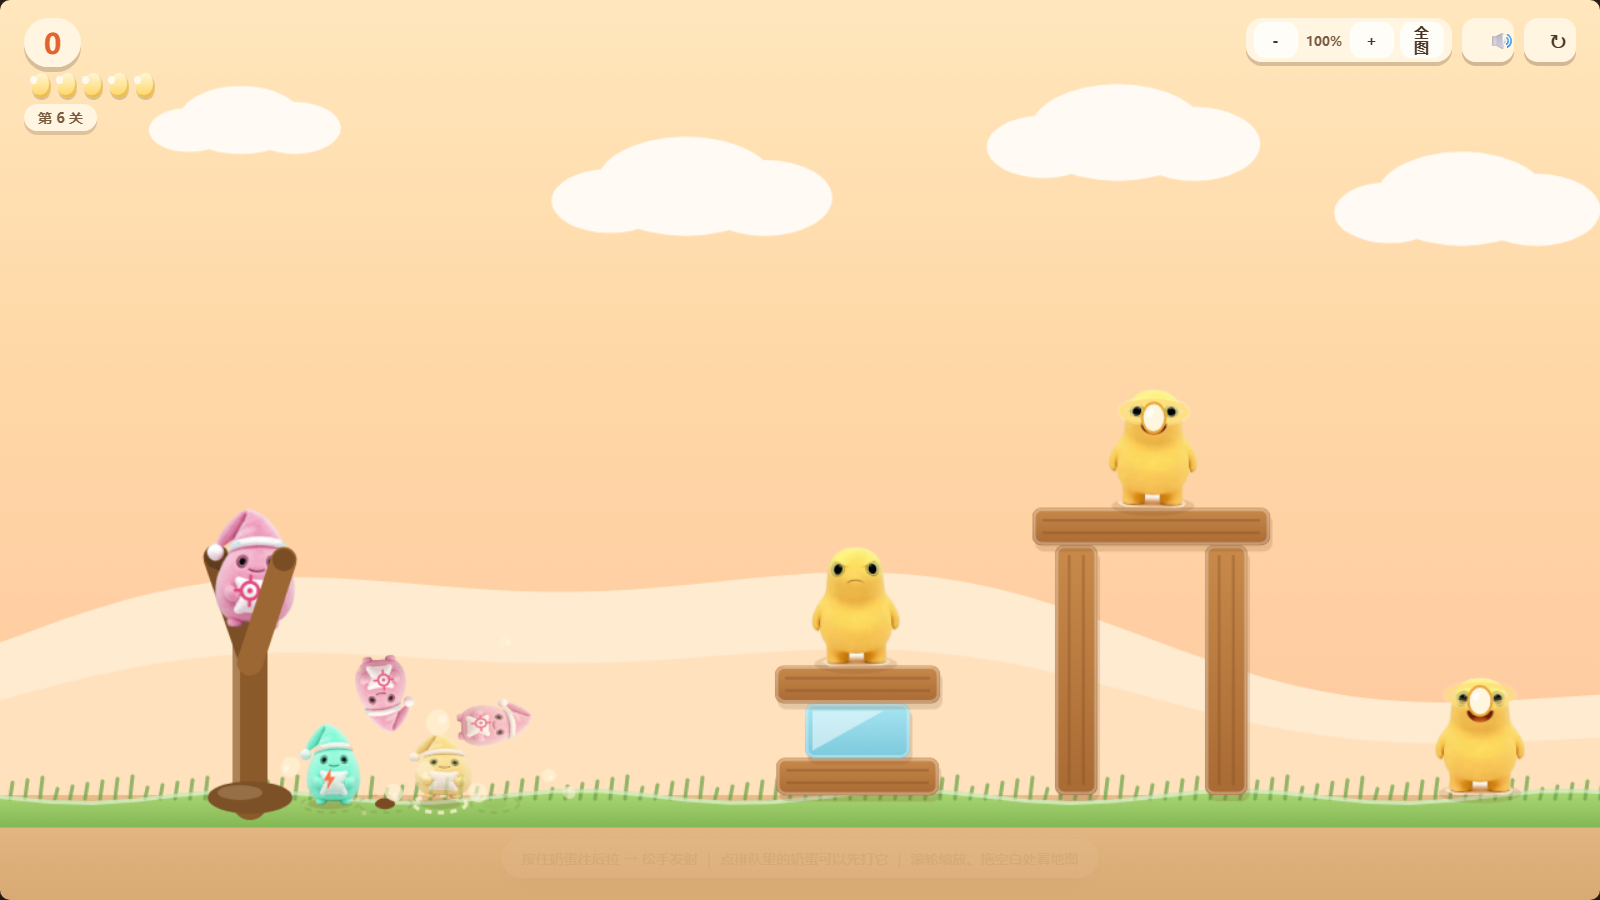
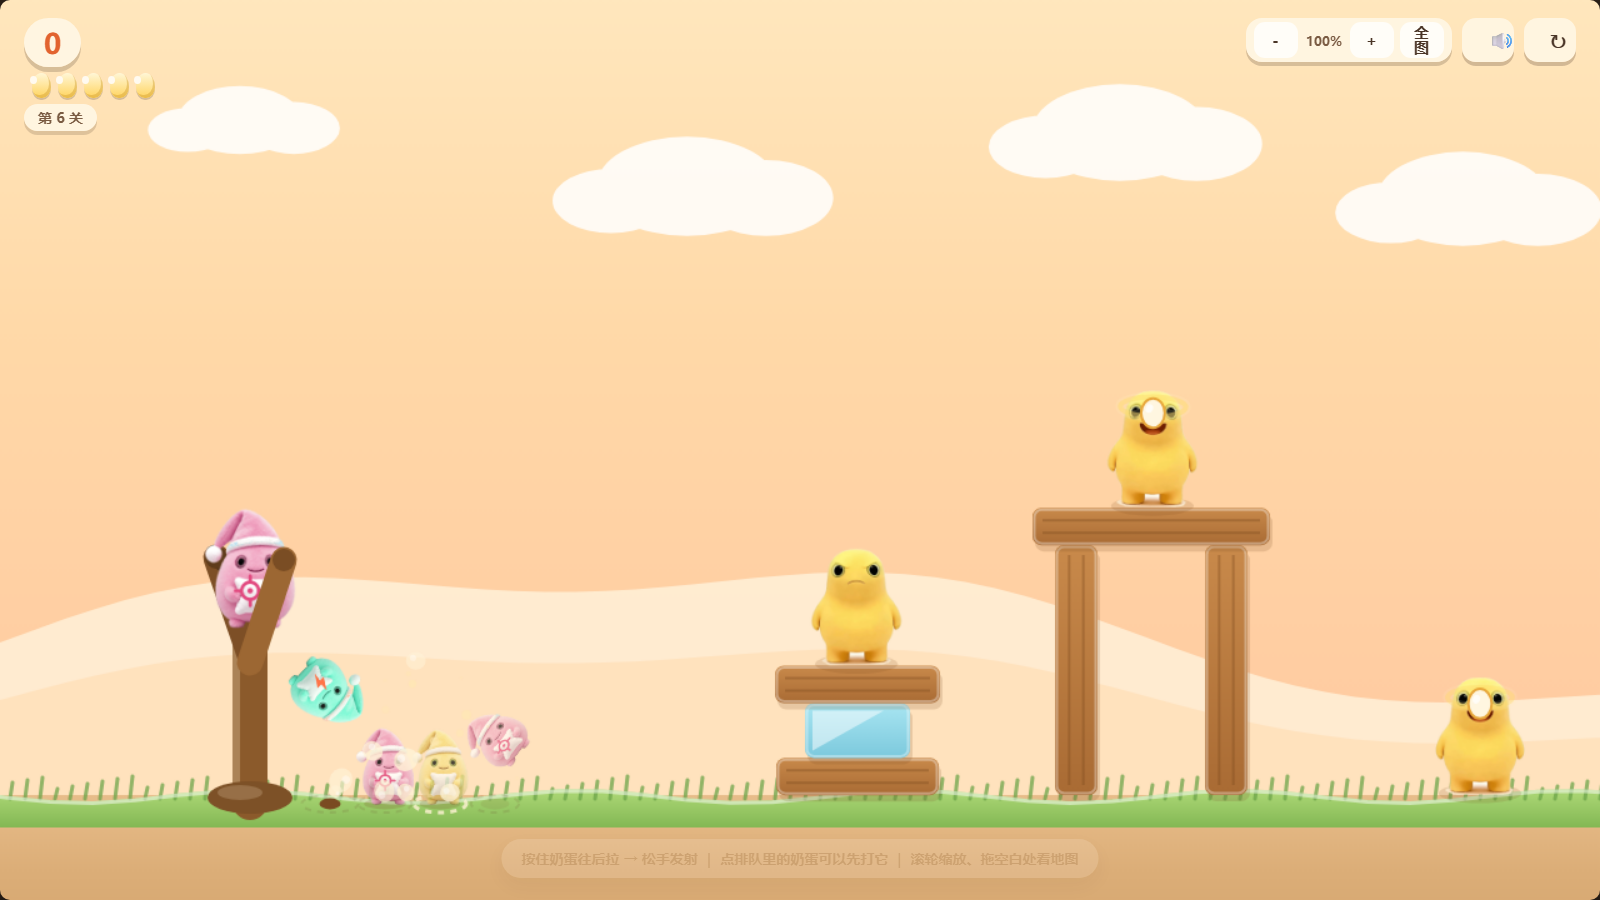
满弓抖动减弱
拉满弓时的持续振动收细一半：相机抖动强度 0.34 → 0.18（稳定峰值约 ±2.8px → ±1.3px），奶蛋本体抖动 2.4 → 1.3。发光/脉冲/暖光暗角/金色力度条这些表现都不动，保留"绷紧了"的手感。

验收里加了上限断言：满弓时相机抖动峰值不得超过 2.0px（实测 1.32）。

diff --git a/dist/奶蛋弹弓-单文件.html b/dist/奶蛋弹弓-单文件.html
@@ -1362,7 +1362,7 @@ window.BossLevel = {
   const world = engine.world;
   /** 版本戳：每次改完随手改一下，标题页角落和 window.__nai.build 都能看到，
    *  方便确认浏览器里跑的是不是最新那份（file:// 打开时页面不会自己刷新） */
-  const BUILD = '2026-10-14 · 转场不再丢弹';
+  const BUILD = '2026-10-14 · 满弓抖动减弱';
   let state = 'title'; // title | pick | intro | aim | fly | settling | clearing | over
   let score = 0;
   let birdsLeft = 0;
@@ -2974,8 +2974,9 @@ window.BossLevel = {
         addSpark(activeBird.position.x, activeBird.position.y, 16, '#ffe6a8', 'star');
         shake(3.2);
       }
-      // 满弓时弓身嗡嗡发抖
-      if (drag.charge > 0.05) shake(0.34 * drag.charge);
+      // 满弓时弓身嗡嗡发抖（0.18 会让相机抖稳定在 ±1.5px 左右；
+      // 原来是 0.34 ≈ ±2.8px，抖得有点晕，这里收细一点，保留"绷紧了"的手感）
+      if (drag.charge > 0.05) shake(0.18 * drag.charge);
     }
 
     // 开场动画：镜头按时间轴走，物理照常跑（让结构自己落稳）
@@ -3328,7 +3329,7 @@ window.BossLevel = {
     ctx.translate(b.position.x, b.position.y);
     // 满弓时奶蛋自己也在抖
     if (drag && drag.charge > 0.15 && state === 'aim') {
-      const j = drag.charge * 2.4;
+      const j = drag.charge * 1.3;   // 原来是 2.4，跟着一起收细
       ctx.translate(rand(-j, j), rand(-j, j));
     }
     ctx.rotate(b.angle);
@@ -4105,6 +4106,7 @@ window.BossLevel = {
       bombs: bombs.length,
       explosions: explosions.length,
       charge: drag ? Math.round((drag.charge || 0) * 100) / 100 : 0,
+      camShake: Math.round(CAM.shake * 100) / 100,
       pullPower: drag ? Math.round((drag.power || 0) * 100) / 100 : 0,
       /** 等候区奶蛋的待机姿态（测试用：能看出它们是不是真的在动、有没有翻整圈） */
       queueIdle: birdQueue.slice(0, 3).map((k, i) => {

diff --git a/js/game.js b/js/game.js
@@ -149,7 +149,7 @@
   const world = engine.world;
   /** 版本戳：每次改完随手改一下，标题页角落和 window.__nai.build 都能看到，
    *  方便确认浏览器里跑的是不是最新那份（file:// 打开时页面不会自己刷新） */
-  const BUILD = '2026-10-14 · 转场不再丢弹';
+  const BUILD = '2026-10-14 · 满弓抖动减弱';
   let state = 'title'; // title | pick | intro | aim | fly | settling | clearing | over
   let score = 0;
   let birdsLeft = 0;
@@ -1761,8 +1761,9 @@
         addSpark(activeBird.position.x, activeBird.position.y, 16, '#ffe6a8', 'star');
         shake(3.2);
       }
-      // 满弓时弓身嗡嗡发抖
-      if (drag.charge > 0.05) shake(0.34 * drag.charge);
+      // 满弓时弓身嗡嗡发抖（0.18 会让相机抖稳定在 ±1.5px 左右；
+      // 原来是 0.34 ≈ ±2.8px，抖得有点晕，这里收细一点，保留"绷紧了"的手感）
+      if (drag.charge > 0.05) shake(0.18 * drag.charge);
     }
 
     // 开场动画：镜头按时间轴走，物理照常跑（让结构自己落稳）
@@ -2115,7 +2116,7 @@
     ctx.translate(b.position.x, b.position.y);
     // 满弓时奶蛋自己也在抖
     if (drag && drag.charge > 0.15 && state === 'aim') {
-      const j = drag.charge * 2.4;
+      const j = drag.charge * 1.3;   // 原来是 2.4，跟着一起收细
       ctx.translate(rand(-j, j), rand(-j, j));
     }
     ctx.rotate(b.angle);
@@ -2892,6 +2893,7 @@
       bombs: bombs.length,
       explosions: explosions.length,
       charge: drag ? Math.round((drag.charge || 0) * 100) / 100 : 0,
+      camShake: Math.round(CAM.shake * 100) / 100,
       pullPower: drag ? Math.round((drag.power || 0) * 100) / 100 : 0,
       /** 等候区奶蛋的待机姿态（测试用：能看出它们是不是真的在动、有没有翻整圈） */
       queueIdle: birdQueue.slice(0, 3).map((k, i) => {

diff --git a/README.md b/README.md
@@ -25,8 +25,8 @@
 操作：
 
 - **按住弹弓上的奶蛋往后拉**，出现预测弹道点，**松手发射**
-- **拉到最满**（93% 以上）时奶蛋会开始发光、发抖，屏幕边缘泛暖光，力度条变金并打出"满弓！"
-  （蓄力过程是静音的，只在跨过满弓那一刻响一声提示音）
+- **拉到最满**（93% 以上）时奶蛋会开始发光、轻微发抖，屏幕边缘泛暖光，力度条变金并打出"满弓！"
+  （抖动刻意收细：相机峰值 ±1.3px、奶蛋 ±1.3px，够"绷紧"但不晃眼；蓄力过程是静音的，只在跨过满弓那一刻响一声提示音）
 - **飞行中再点一下屏幕**（或按空格）= 放技能，每发只能放一次
 - **点排队里的奶蛋** = 让它立刻上弓（悬停会亮圈），想先打哪颗就点哪颗
 - **滚轮/双指** 缩放看全图，**按住空白处拖动** 平移镜头（松手自己滑回弹弓）
